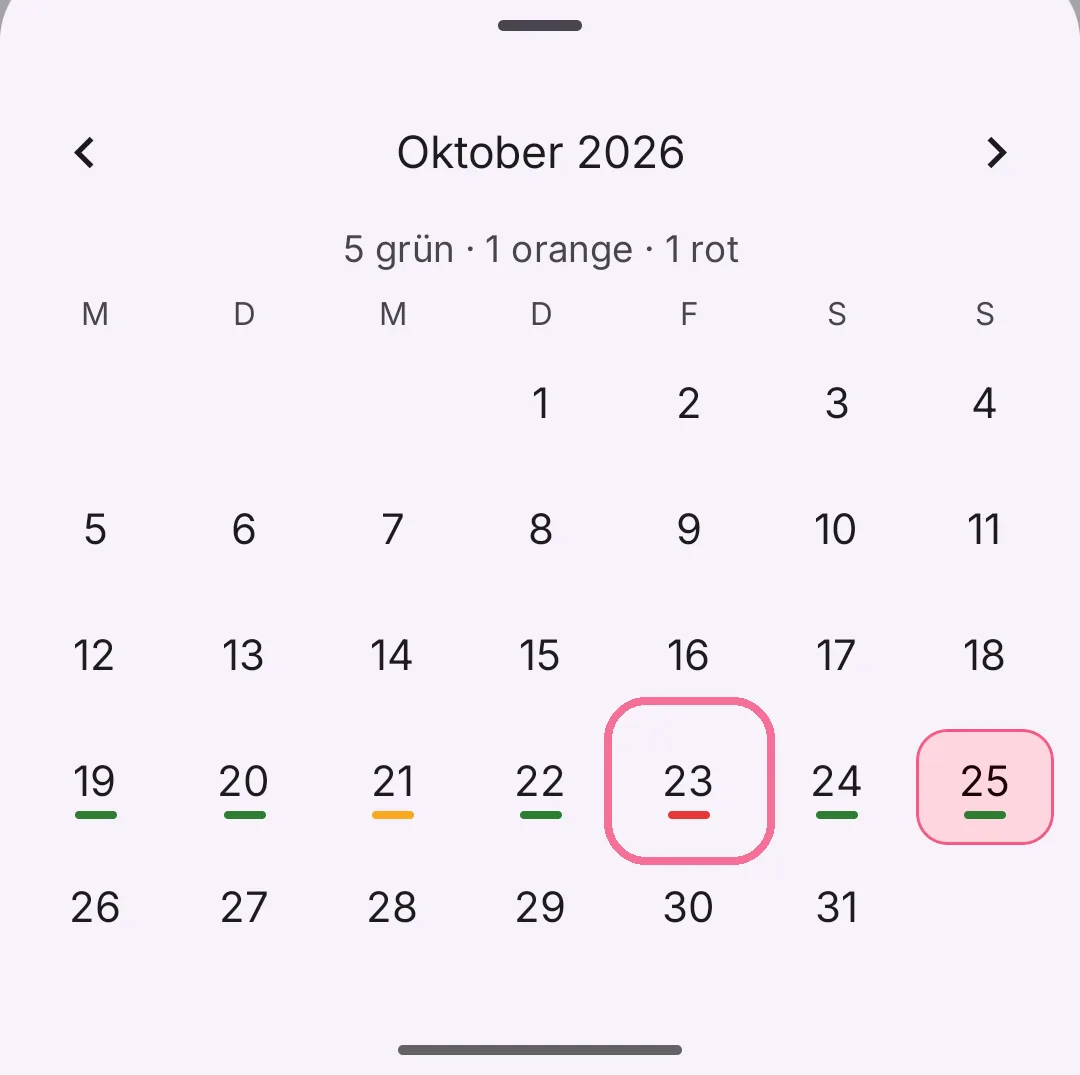
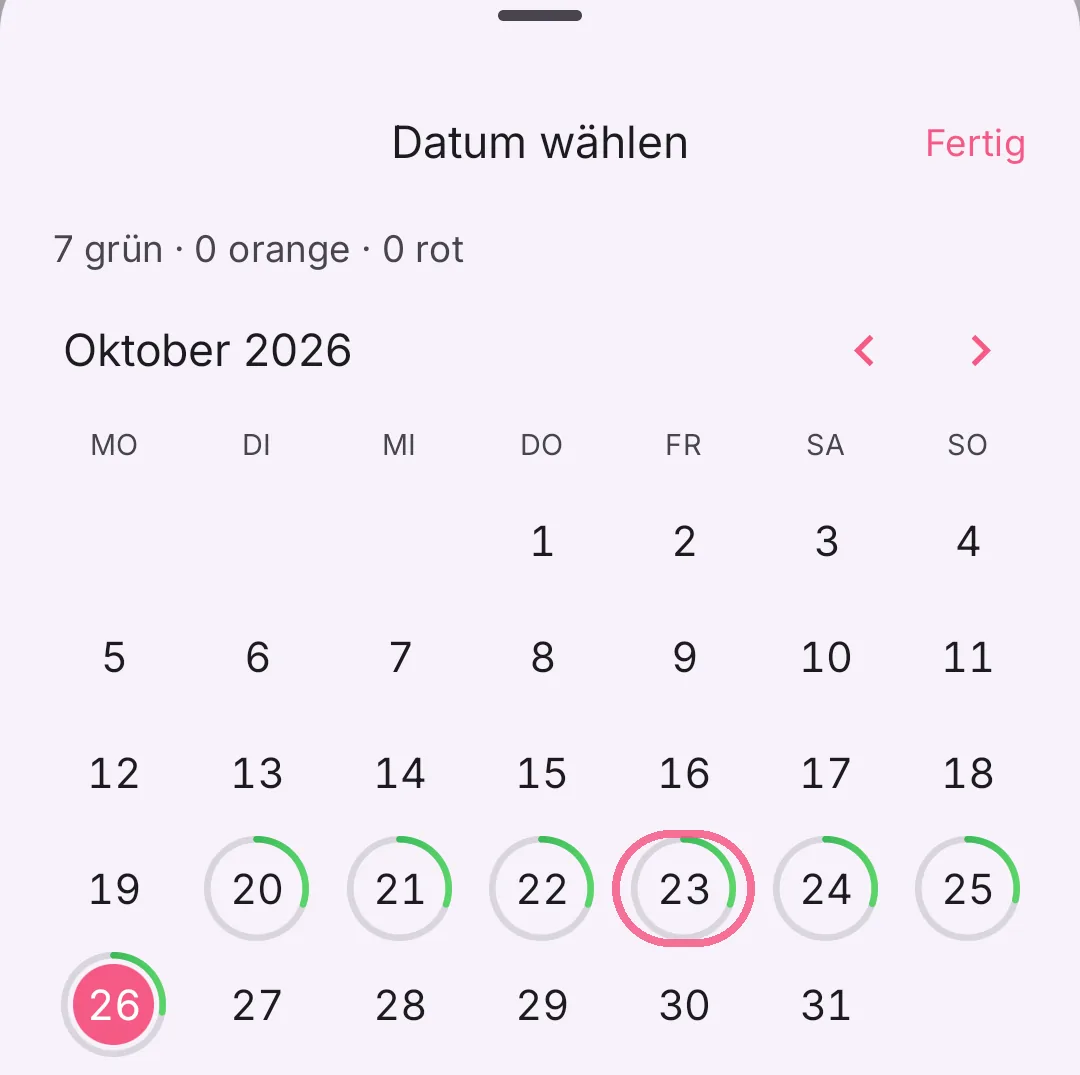
docs(help): Android 2.8.0 screenshots and steps for the ringed calendar, remaining line and new AI card
Recaptured DE and EN Android shots for month-calendar, remaining-calories-food-sheet,
intake-ai-text, photo-logging, correct-ai-estimate and food-photos. Android step texts
describe the day rings, the line under the title and "Fertig"; the macro-tap note and
the iPhone-only portion note are gone.

Claude-Session: https://claude.ai/code/session_01U7dygkmCveErUVHiFh1ftY

diff --git a/content/help/remaining-calories-food-sheet/de.md b/content/help/remaining-calories-food-sheet/de.md
@@ -9,20 +9,18 @@ related:
 steps:
   - text: "Unter dem Titel siehst du, wie viele Kalorien an diesem Tag noch übrig sind."
     android:
-      text: "Oben rechts neben dem Namen der Mahlzeit steht, wie viele Kalorien an diesem Tag noch übrig sind."
+      text: "Unter dem Namen der Mahlzeit steht, wie viele Kalorien an diesem Tag noch übrig sind."
       image: ./assets/de/android/1.webp
     ios:
       text: "Unter dem Namen der Mahlzeit steht, wie viele Kalorien an diesem Tag noch übrig sind."
       image: ./assets/de/ios/1.webp
   - text: "Auch auf den nächsten Seiten, zum Beispiel bei der Portion, siehst du die Zahl."
     android:
-      text: "Auch auf den nächsten Seiten, zum Beispiel bei der Portion, steht die Zahl oben. Sie zieht die gewählte Menge schon ab."
+      text: "Auch auf den nächsten Seiten, zum Beispiel bei der Portion, steht die Zahl unter dem Titel."
       image: ./assets/de/android/2.webp
     ios:
       text: "Auch auf den nächsten Seiten, zum Beispiel bei der Portion, steht die Zahl unter dem Titel."
       image: ./assets/de/ios/2.webp
 ---
 
-Auf dem iPhone ändert sich die Zahl erst, wenn du etwas einträgst, nicht schon beim Auswählen. Bist du über deinem Ziel, steht dort „kcal zu viel“.
-
-Auf Android tippst du auf die Zahl, um Protein, Kohlenhydrate und Fett mit ihren Zielen zu sehen.
+Die Zahl ändert sich erst, wenn du etwas einträgst, nicht schon beim Auswählen. Bist du über deinem Ziel, steht dort „kcal zu viel“.

diff --git a/content/help/remaining-calories-food-sheet/en.md b/content/help/remaining-calories-food-sheet/en.md
@@ -9,20 +9,18 @@ related:
 steps:
   - text: "Under the title you see how many calories are left that day."
     android:
-      text: "At the top right, next to the meal’s name, you see how many calories are left that day."
+      text: "Under the meal’s name you see how many calories are left that day."
       image: ./assets/en/android/1.webp
     ios:
       text: "Under the meal’s name you see how many calories are left that day."
       image: ./assets/en/ios/1.webp
   - text: "The following pages, for example the portion, show the number too."
     android:
-      text: "The following pages, for example the portion, show the number at the top too. It already takes off the amount you chose."
+      text: "The following pages, for example the portion, show the number under their title too."
       image: ./assets/en/android/2.webp
     ios:
       text: "The following pages, for example the portion, show the number under their title too."
       image: ./assets/en/ios/2.webp
 ---
 
-On iPhone the number only changes once you log something, not while you’re choosing. Once you’re over your target, it says “kcal too much”.
-
-On Android, tap the number to see protein, carbs and fat with their targets.
+The number only changes once you log something, not while you’re choosing. Once you’re over your target, it says “kcal too much”.

diff --git a/content/help/month-calendar/de.md b/content/help/month-calendar/de.md
@@ -14,11 +14,13 @@ steps:
       image: ./assets/de/ios/1.webp
   - text: "Unter jedem Tag mit Einträgen steht ein farbiger Strich. Oben siehst du, wie viele Tage im Monat grün, orange und rot sind."
     android:
+      text: "Jeder Tag mit Einträgen hat einen Ring in Grün, Orange oder Rot. Oben siehst du, wie viele Tage im Monat welche Farbe haben."
       image: ./assets/de/android/2.webp
     ios:
       image: ./assets/de/ios/2.webp
   - text: "Tippe auf einen Tag, um ihn zu öffnen."
     android:
+      text: "Tippe auf einen Tag und dann auf „Fertig“, um ihn zu öffnen."
       image: ./assets/de/android/3.webp
     ios:
       text: "Tippe auf einen Tag und dann auf „Fertig“, um ihn zu öffnen."

diff --git a/content/help/month-calendar/en.md b/content/help/month-calendar/en.md
@@ -14,11 +14,13 @@ steps:
       image: ./assets/en/ios/1.webp
   - text: "Every day with entries has a colored line under it. At the top you see how many days this month are green, orange and red."
     android:
+      text: "Every day with entries has a ring in green, orange or red. At the top you see how many days this month have each color."
       image: ./assets/en/android/2.webp
     ios:
       image: ./assets/en/ios/2.webp
   - text: "Tap a day to open it."
     android:
+      text: "Tap a day, then “Done” to open it."
       image: ./assets/en/android/3.webp
     ios:
       text: "Tap a day, then “Done” to open it."

diff --git a/content/help/correct-ai-estimate/en.md b/content/help/correct-ai-estimate/en.md
@@ -23,7 +23,7 @@ steps:
       image: ./assets/en/ios/2.webp
   - text: "Adjust the portion or the calories if you like."
     android:
-      text: "Under “Portion” choose “Less” or “More”; under “Calories” set the value on the wheel."
+      text: "Under “Portion”, choose “Smaller” or “Larger”; under “Calories”, set the value on the wheel."
       image: ./assets/en/android/3.webp
     ios:
       text: "Under “Portion”, choose “Smaller” or “Larger”; under “Calories”, set the value on the wheel."

diff --git a/content/help/intake-ai-text/de.md b/content/help/intake-ai-text/de.md
@@ -35,4 +35,4 @@ steps:
 
 Mengen und Marken machen die Schätzung genauer. Stimmt etwas nicht, antworte einfach im Chat, zum Beispiel „Es waren 200 g Hähnchen“, siehe [Schätzung von Intake AI korrigieren](/hilfe/intake-ai-korrigieren). Statt zu tippen kannst du auch diktieren.
 
-Auf dem iPhone änderst du mit „Portion“ die Menge vor dem Loggen, und oben auf der Karte wählst du die Mahlzeit.
+Mit „Portion“ änderst du die Menge vor dem Loggen, und oben auf der Karte wählst du die Mahlzeit.

diff --git a/content/help/intake-ai-text/en.md b/content/help/intake-ai-text/en.md
@@ -35,4 +35,4 @@ steps:
 
 The more detail you give, the better the estimate, for example amounts or brands. If something’s off, just reply in the chat, say “It was 200 g of chicken”, see [Correct an Intake AI estimate](/en/help/correct-ai-estimate). You can also dictate instead of typing.
 
-On iPhone, “Portion” changes the amount before you log, and the top of the card lets you pick the meal.
+“Portion” changes the amount before you log, and the top of the card lets you pick the meal.
